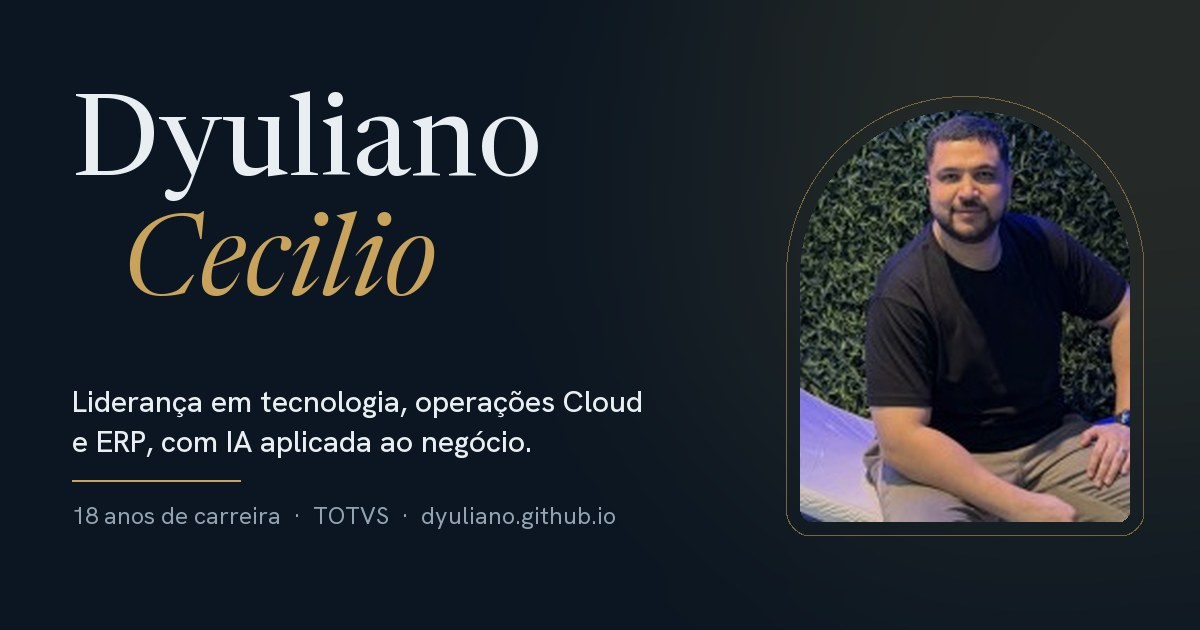
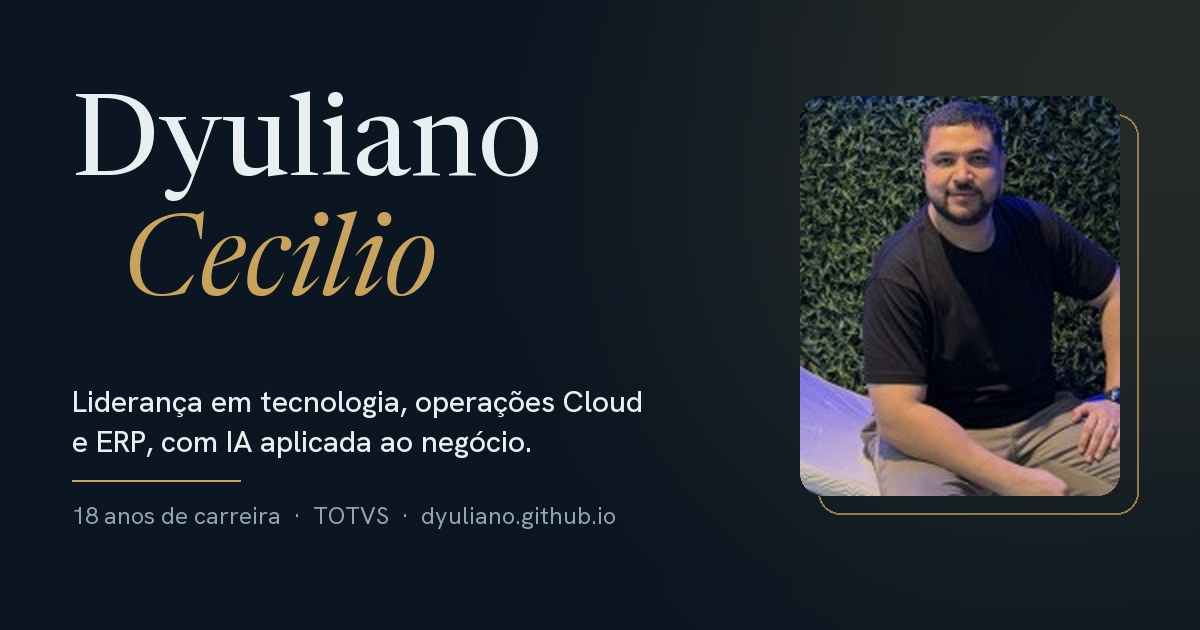
Foto em moldura retangular com cantos arredondados e prévia de compartilhamento atualizada

Changed region(s): [[0.6475, 0.1508, 0.9558, 0.8444]]

diff --git a/index.html b/index.html
@@ -27,7 +27,7 @@
 <script type="application/ld+json">
 {"@context":"https://schema.org","@type":"Person","name":"Dyuliano Cecilio de Souza","jobTitle":"Coordenador de Cloud","worksFor":{"@type":"Organization","name":"TOTVS"},"address":{"@type":"PostalAddress","addressCountry":"BR"},"url":"https://dyuliano.github.io/","sameAs":["https://www.linkedin.com/in/dyuliano/","https://github.com/dyuliano","https://huggingface.co/dyulianocecilio"]}
 </script>
-<noscript><style>#intro{display:none}body.loading{overflow:auto}.reveal,.fade{opacity:1!important;transform:none!important}.hero h1 .ch{transform:none}.portrait .frame{clip-path:none!important}.manifesto .w{color:var(--text)}</style></noscript>
+<noscript><style>#intro{display:none}body.loading{overflow:auto}.reveal,.fade{opacity:1!important;transform:none!important}.hero h1 .ch{transform:none}.portrait .frame{clip-path:none!important}.portrait .ring{opacity:1;transform:translate(18px,18px)}.manifesto .w{color:var(--text)}</style></noscript>
 <style>
 :root{
   --ink:#0B1622;
@@ -123,14 +123,13 @@ nav.top.open .menu-btn i:nth-child(2){top:21.5px;transform:rotate(-45deg)}
 .btn svg{width:16px;height:16px}
 
 .portrait{position:relative;justify-self:center;width:min(100%,320px);aspect-ratio:4/5}
-.portrait .frame{position:absolute;inset:0;border-radius:160px 160px 18px 18px;overflow:hidden;clip-path:inset(100% 0 0 0 round 160px 160px 18px 18px);transition:clip-path 1.4s var(--ease) .35s;background:#000}
-.ready .portrait .frame{clip-path:inset(0 0 0 0 round 160px 160px 18px 18px)}
+.portrait .frame{position:absolute;inset:0;z-index:1;border-radius:22px;overflow:hidden;clip-path:inset(100% 0 0 0 round 22px);transition:clip-path 1.4s var(--ease) .35s;background:#000;box-shadow:0 40px 80px -30px rgba(0,0,0,.75)}
+.ready .portrait .frame{clip-path:inset(0 0 0 0 round 22px)}
 .portrait img{width:100%;height:100%;object-fit:cover;object-position:46% 30%;filter:saturate(.8) contrast(1.04);transform:scale(1.15);transition:transform 2.2s var(--ease) .35s}
 .ready .portrait img{transform:scale(1.02)}
-.portrait .ring{position:absolute;inset:-14px;border:1px solid var(--line);border-radius:174px 174px 28px 28px;pointer-events:none}
-.portrait .ring::after{content:"";position:absolute;top:-4px;left:50%;width:7px;height:7px;border-radius:50%;background:var(--brass);box-shadow:0 0 18px var(--brass);offset-path:inset(0 round 174px 174px 28px 28px);animation:orbit 14s linear infinite}
-@keyframes orbit{to{offset-distance:100%}}
-.portrait .tag{position:absolute;left:-28px;bottom:42px;background:rgba(16,34,49,.85);backdrop-filter:blur(10px);-webkit-backdrop-filter:blur(10px);border:1px solid var(--line);border-radius:14px;padding:14px 18px;font-size:14px;line-height:1.35;max-width:220px}
+.portrait .ring{position:absolute;inset:0;border:1px solid rgba(201,163,91,.45);border-radius:22px;pointer-events:none;transform:translate(0,0);opacity:0;transition:transform 1.4s var(--ease) .9s,opacity 1s .9s}
+.ready .portrait .ring{transform:translate(18px,18px);opacity:1}
+.portrait .tag{position:absolute;z-index:2;left:-28px;bottom:42px;background:rgba(16,34,49,.85);backdrop-filter:blur(10px);-webkit-backdrop-filter:blur(10px);border:1px solid var(--line);border-radius:14px;padding:14px 18px;font-size:14px;line-height:1.35;max-width:220px}
 .portrait .tag b{display:block;font-family:var(--serif);font-weight:500;font-size:26px;color:var(--brass);line-height:1.1}
 .scroll-cue{position:absolute;bottom:26px;left:50%;transform:translateX(-50%);width:22px;height:36px;border:1px solid var(--line);border-radius:12px}
 .scroll-cue::after{content:"";position:absolute;left:50%;top:7px;width:2px;height:7px;margin-left:-1px;background:var(--brass);border-radius:2px;animation:cue 2s var(--ease) infinite}
@@ -139,8 +138,9 @@ nav.top.open .menu-btn i:nth-child(2){top:21.5px;transform:rotate(-45deg)}
 @media (max-width:860px){
   .hero{align-items:flex-start}
   .hero .wrap{grid-template-columns:1fr;padding-top:96px}
-  .portrait{order:-1;width:min(62vw,260px);margin-bottom:8px;justify-self:start}
+  .portrait{order:-1;width:min(62vw,260px);margin-bottom:36px;justify-self:start}
   .portrait .tag{left:auto;right:-20px;bottom:-22px;padding:10px 14px;font-size:13px}
+  .ready .portrait .ring{transform:translate(12px,12px)}
   .portrait .tag b{font-size:21px}
   .hero h1 .ln:last-child{padding-left:.3em}
   .scroll-cue{display:none}
